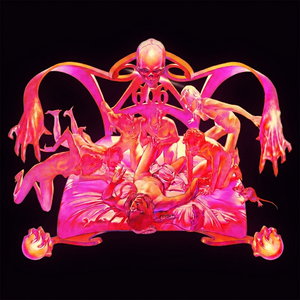
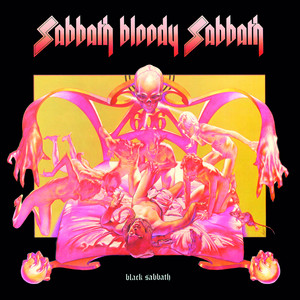
Split SBS covers: original for home/Song Map, altered for LL.
Keep sbs.png as the classic art; sbs-ll.png (+ T3 wash) for lick-library chips and song labels.

diff --git a/index.html b/index.html
@@ -51,7 +51,7 @@
   }
   .tile small { font-size: 1rem; font-weight: 700; letter-spacing: .14em; text-transform: uppercase; margin-bottom: 6px; }
   .tile.a {
-    background: #000 url("covers/sbs.png") center / cover no-repeat;
+    background: #000 url("covers/sbs.png?v=5") center / cover no-repeat;
     color: transparent;
   }
   .tile.a small { color: transparent; }
@@ -2808,7 +2808,7 @@ var ALBUMS_DEFAULT = [
     { song: "Rat Salad", sections: [["I1",3,"RS-I1"],["V2",3],["S1",1]] },
     { song: "Fairies Wear Boots", sections: [["I1",2,"FOB-I1"],["I2",2,"FOB-I2"],["I3",2,"FOB-I3"],["I4",2,"FOB-I4"],["S1",1,"FOB-S1"],["V1",3,"FOB-V1"],["B1",3,"FOB-B1"],["L1",2,"FOB-L1"],["S2",1,"FOB-S2"],["F1",3]] },
   ]},
-  { name: "Sabbath Bloody Sabbath", cover: "covers/sbs.png?v=4", font: "font-sbs", songs: [
+  { name: "Sabbath Bloody Sabbath", cover: "covers/sbs.png?v=5", font: "font-sbs", songs: [
     { song: "Sabbath Bloody Sabbath", sections: [["V1",1],["PC1",2],["PC2",2],["S1",1],["B1",3],["B2",2],["B3",2],["B4",2],["S2",2]] },
     { song: "A National Acrobat", sections: [["I1",1],["V1",3],["B1",1],["S1",1],["B2",3],["B3",3],["B4",3],["B5",3],["B6",3],["S3",3]] },
     { song: "Fluff", sections: [] },
@@ -3894,7 +3894,7 @@ function pullPlayQueue() {
 }
 function openPlayWindow() {
   var base = location.href.split("?")[0].split("#")[0];
-  var url = base + "?playboard=1&v=90";
+  var url = base + "?playboard=1&v=91";
   /* Centered popup window (not a tab) — no LL resize/move */
   var availL = (window.screen && typeof screen.availLeft === "number") ? screen.availLeft : 0;
   var availT = (window.screen && typeof screen.availTop === "number") ? screen.availTop : 0;
@@ -5430,7 +5430,7 @@ var CATALOG = [
   ["LFT-1C","C"],["LFT-1D","D"]
 ];
 var FOLDER = { A: "a-crops/", B: "b-crops/", B2: "b-crops/", C: "svg/", D: "svg/" };
-var COVER = { A: "covers/sbs.png?v=4", B: "covers/paranoid.png", B2: "covers/paranoid.png" };
+var COVER = { A: "covers/sbs-ll.png?v=5", B: "covers/paranoid.png", B2: "covers/paranoid.png" };
 var COVER_BY_TIER = {
   1: "covers/paranoid.png", /* unaltered — same as T2 */
   2: "covers/paranoid.png",
@@ -5444,7 +5444,7 @@ function llCoverForAlbumTier(album, tier) {
   tier = parseInt(tier, 10);
   if (!(tier >= 1 && tier <= 2)) tier = 3;
   if (album === "Sabbath Bloody Sabbath") {
-    return (tier >= 3) ? "covers/sbs-tier3.png?v=4" : "covers/sbs.png?v=4";
+    return (tier >= 3) ? "covers/sbs-tier3.png?v=5" : "covers/sbs-ll.png?v=5";
   }
   /* Paranoid default */
   if (COVER_BY_TIER[tier]) return COVER_BY_TIER[tier];
@@ -5855,7 +5855,7 @@ function llSongRowsForLibrary() {
   return rows;
 }
 function llAlbumCoverUrl(albumName) {
-  if (albumName === "Sabbath Bloody Sabbath") return "covers/sbs.png?v=4";
+  if (albumName === "Sabbath Bloody Sabbath") return "covers/sbs-ll.png?v=5";
   if (albumName === "Master of Reality") return "covers/mor.png";
   return "covers/paranoid.png";
 }
